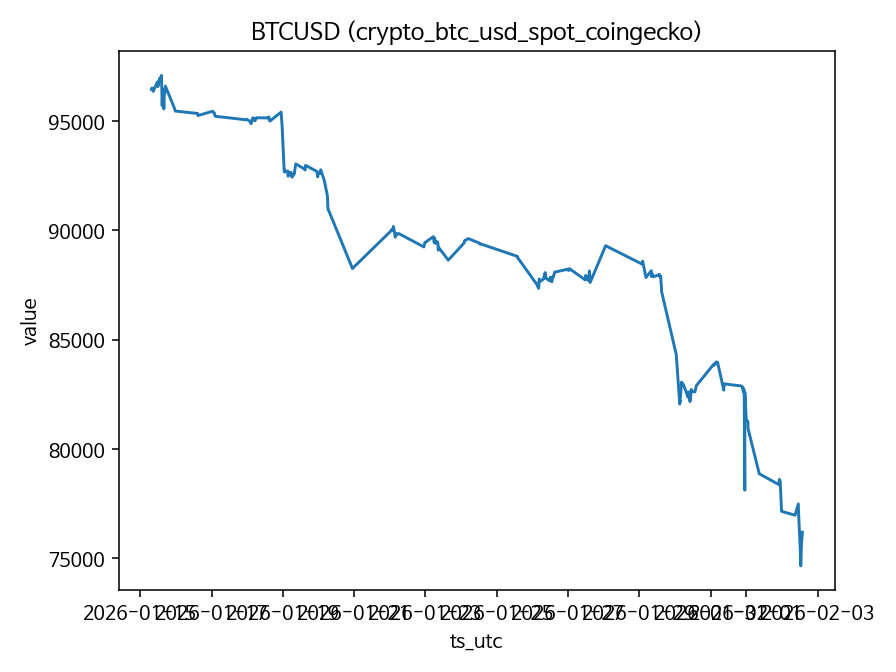
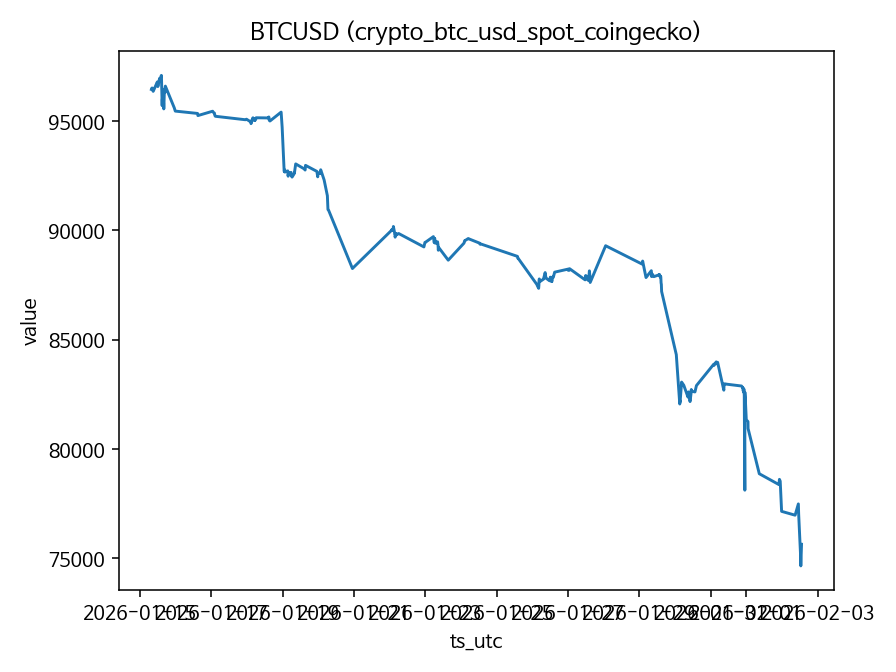
docs: Update generated docs from verification runs

Changed region(s): [[0.2812, 0.0312, 0.7812, 0.0625]]

diff --git a/docs/data/issuesignal/index.html b/docs/data/issuesignal/index.html
@@ -132,10 +132,10 @@
         <div>
             <div class="header-meta">
                 <span>DATA: 2026-02-02</span>
-                <span>RUN: 2026-02-02 13:45:30</span>
+                <span>RUN: 2026-02-02 13:10:00</span>
             </div>
             <div class="header-meta" style="margin-top:2px;">
-                <span>커밋: 90b3348</span>
+                <span>커밋: eaa2ca8</span>
                 <span>엔진: v2.5.1</span>
             </div>
         </div>

diff --git a/docs/issuesignal/index.html b/docs/issuesignal/index.html
@@ -132,10 +132,10 @@
         <div>
             <div class="header-meta">
                 <span>DATA: 2026-02-02</span>
-                <span>RUN: 2026-02-02 13:45:30</span>
+                <span>RUN: 2026-02-02 13:10:00</span>
             </div>
             <div class="header-meta" style="margin-top:2px;">
-                <span>커밋: 90b3348</span>
+                <span>커밋: eaa2ca8</span>
                 <span>엔진: v2.5.1</span>
             </div>
         </div>

diff --git a/docs/data/reports/2026/02/02/decision_dashboard.md b/docs/data/reports/2026/02/02/decision_dashboard.md
@@ -83,9 +83,9 @@
 - **Count**: 40
 - **Type Breakdown**: NEWS: 40
 - **Samples (Top 3)**:
-  - [NEWS] [속보]코스피 매도사이드카 발동, 5% 폭락해 5000선 무너져 - 경향신문 (Google_News_KR_Economy)
-  - [NEWS] 대출 막으니 “국평만 더 튀었다”… 강남 18억·강북 11억 ‘역대급’ [수민이가 궁금해요] - 세계일보 (Google_News_KR_Economy)
-  - [NEWS] 금, 은 원자재 가격 폭락과 비트코인 하락, 다음주 미국, 한국증시 전망 - 네이버 프리미엄콘텐츠 (Google_News_KR_Economy)
+  - [NEWS] 비트코인 급락에 트레저리 기업 주가 흔들…차기 연준 의장 ‘친코인’ 가능성에 세일러는 “더 산다” - 조선일보 (Google_News_KR_Economy)
+  - [NEWS] 서울 중소형 아파트값, 한강 이남에선 평균 18억 넘었다 - 경향신문 (Google_News_KR_Economy)
+  - [NEWS] 금·은 급락 부른 ‘케빈 워시 효과’…조기 금리인하 베팅 점화 - mstoday.co.kr (Google_News_KR_Economy)
 
 
 ### 🌱 TOPIC SEEDS (STRUCTURAL)
@@ -187,37 +187,26 @@
 
 | Fact Anchor | Structural Reason | Confidence |
 |---|---|---|
-| [속보]코스피 매도사이드카 발동, 5% 폭락해 5000선 무너져 - 경향신문 | Structural implication: '[속보]코스피 매도사이드카 발동, 5% 폭락해 5000선 무너져 - 경향신문' suggests a shift in NEWS dynamics. | LOW |
-| 대출 막으니 “국평만 더 튀었다”… 강남 18억·강북 11억 ‘역대급’ [수민이가 궁금해요] - 세계일보 | Structural implication: '대출 막으니 “국평만 더 튀었다”… 강남 18억·강북 11억 ‘역대급’ [수민이가 궁금해요] - 세계일보' suggests a shift in NEWS dynamics. | LOW |
-| 금, 은 원자재 가격 폭락과 비트코인 하락, 다음주 미국, 한국증시 전망 - 네이버 프리미엄콘텐츠 | Structural implication: '금, 은 원자재 가격 폭락과 비트코인 하락, 다음주 미국, 한국증시 전망 - 네이버 프리미엄콘텐츠' suggests a shift in NEWS dynamics. | LOW |
-| “큰손들은 이미 발 뺐다”…비트코인, 8만 달러도 무너진 이유 [잇슈 머니] - KBS 뉴스 | Structural implication: '“큰손들은 이미 발 뺐다”…비트코인, 8만 달러도 무너진 이유 [잇슈 머니] - KBS 뉴스' suggests a shift in NEWS dynamics. | LOW |
-| ‘워시 충격’에…코스피 확 밀리고, 환율은 1450원대로 급등 - 한겨레 | Structural implication: '‘워시 충격’에…코스피 확 밀리고, 환율은 1450원대로 급등 - 한겨레' suggests a shift in NEWS dynamics. | LOW |
+| 비트코인 급락에 트레저리 기업 주가 흔들…차기 연준 의장 ‘친코인’ 가능성에 세일러는 “더 산다” - 조선일보 | Structural implication: '비트코인 급락에 트레저리 기업 주가 흔들…차기 연준 의장 ‘친코인’ 가능성에 세일러는 “더 산다” - 조선일보' suggests a shift in NEWS dynamics. | LOW |
+| 서울 중소형 아파트값, 한강 이남에선 평균 18억 넘었다 - 경향신문 | Structural implication: '서울 중소형 아파트값, 한강 이남에선 평균 18억 넘었다 - 경향신문' suggests a shift in NEWS dynamics. | LOW |
+| 금·은 급락 부른 ‘케빈 워시 효과’…조기 금리인하 베팅 점화 - mstoday.co.kr | Structural implication: '금·은 급락 부른 ‘케빈 워시 효과’…조기 금리인하 베팅 점화 - mstoday.co.kr' suggests a shift in NEWS dynamics. | LOW |
+| 코스피·코스닥 동반 급락…환율 1,450원대로 - 연합뉴스TV | Structural implication: '코스피·코스닥 동반 급락…환율 1,450원대로 - 연합뉴스TV' suggests a shift in NEWS dynamics. | LOW |
+| “1월 주도주가 상반기 휩쓴다”…韓 반도체·자동차 ‘비중 확대’ - 매일경제 | Structural implication: '“1월 주도주가 상반기 휩쓴다”…韓 반도체·자동차 ‘비중 확대’ - 매일경제' suggests a shift in NEWS dynamics. | LOW |
 | 4일 만에 17% 폭등한 코스닥… 종목 대신 ‘레버리지’에 뭉칫돈 쏠린다 - 조선비즈 - Chosunbiz | Structural implication: '4일 만에 17% 폭등한 코스닥… 종목 대신 ‘레버리지’에 뭉칫돈 쏠린다 - 조선비즈 - Chosunbiz' suggests a shift in NEWS dynamics. | LOW |
+| ‘워시 충격’에…코스피 확 밀리고, 환율은 1450원대로 급등 - 한겨레 | Structural implication: '‘워시 충격’에…코스피 확 밀리고, 환율은 1450원대로 급등 - 한겨레' suggests a shift in NEWS dynamics. | LOW |
 | ‘지역별 전기요금’ 도입 방안 연내 마련…1분기 중 산업용 전기요금 개편 - 부산일보 | Structural implication: '‘지역별 전기요금’ 도입 방안 연내 마련…1분기 중 산업용 전기요금 개편 - 부산일보' suggests a shift in NEWS dynamics. | LOW |
 | "D램은 AI시대 완성할 황금나사"…지난달 수출 12.6조 사상 최대 - 한국경제 | Structural implication: '"D램은 AI시대 완성할 황금나사"…지난달 수출 12.6조 사상 최대 - 한국경제' suggests a shift in NEWS dynamics. | LOW |
 | 현대차, 러시아 공장 재매입 안 한다 - 매일경제 | Structural implication: '현대차, 러시아 공장 재매입 안 한다 - 매일경제' suggests a shift in NEWS dynamics. | LOW |
-| 코스피, 외국인 2조 던질 때 개인 투자자가 6조 받았다…TOP3 쏠림 - 연합인포맥스 | Structural implication: '코스피, 외국인 2조 던질 때 개인 투자자가 6조 받았다…TOP3 쏠림 - 연합인포맥스' suggests a shift in NEWS dynamics. | LOW |
-| 마운자로-러닝 열풍에 밀린 헬스장, 지난달에만 70곳 문닫아 - 동아일보 | Structural implication: '마운자로-러닝 열풍에 밀린 헬스장, 지난달에만 70곳 문닫아 - 동아일보' suggests a shift in NEWS dynamics. | LOW |
-| “전원 끄면 우린 사라지나” AI끼리 단톡방 만들었다 - 조선일보 | Structural implication: '“전원 끄면 우린 사라지나” AI끼리 단톡방 만들었다 - 조선일보' suggests a shift in NEWS dynamics. | LOW |
+| 인간은 구경만…AI끼리 주인 뒷담화 내뱉는 SNS ‘몰트북’ 등장 - 동아일보 | Structural implication: '인간은 구경만…AI끼리 주인 뒷담화 내뱉는 SNS ‘몰트북’ 등장 - 동아일보' suggests a shift in NEWS dynamics. | LOW |
 | '두쫀쿠' 철물점·이불집에서도 팔더니…결국 터질게 터졌다 - 한국경제 | Structural implication: ''두쫀쿠' 철물점·이불집에서도 팔더니…결국 터질게 터졌다 - 한국경제' suggests a shift in NEWS dynamics. | LOW |
-| 로또 1등 평균 당첨금 20억원…작년 판매 6.2조 역대 최대 - 연합뉴스TV | Structural implication: '로또 1등 평균 당첨금 20억원…작년 판매 6.2조 역대 최대 - 연합뉴스TV' suggests a shift in NEWS dynamics. | LOW |
+| 머스크도, 팀 쿡도 “반도체 부족” 토로…공급난 장기화하나 - 한겨레 | Structural implication: '머스크도, 팀 쿡도 “반도체 부족” 토로…공급난 장기화하나 - 한겨레' suggests a shift in NEWS dynamics. | LOW |
+| 아틀라스가 공장 들어오는 날, 한국사회는 준비돼 있나 - 경향신문 | Structural implication: '아틀라스가 공장 들어오는 날, 한국사회는 준비돼 있나 - 경향신문' suggests a shift in NEWS dynamics. | LOW |
+| 로또 맞아도 서울에 아파트 한 채 못 사... ‘인생 역전’ 옛말 - 조선일보 | Structural implication: '로또 맞아도 서울에 아파트 한 채 못 사... ‘인생 역전’ 옛말 - 조선일보' suggests a shift in NEWS dynamics. | LOW |
 | “사장님은 25만 원, 손님은 2만 원”…설 명절 ‘지갑’ 지키는 방법 [잇슈 머니] - KBS 뉴스 | Structural implication: '“사장님은 25만 원, 손님은 2만 원”…설 명절 ‘지갑’ 지키는 방법 [잇슈 머니] - KBS 뉴스' suggests a shift in NEWS dynamics. | LOW |
-| 쿠팡, 한국서 40조 벌지만 정작 미국 기업…“대기업 총수 지정 대상서도 빠져” - 매일경제 | Structural implication: '쿠팡, 한국서 40조 벌지만 정작 미국 기업…“대기업 총수 지정 대상서도 빠져” - 매일경제' suggests a shift in NEWS dynamics. | LOW |
 | 탈모, OLED 빛으로 92% 예방…"전임상 계획" - 지디넷코리아 | Structural implication: '탈모, OLED 빛으로 92% 예방…"전임상 계획" - 지디넷코리아' suggests a shift in NEWS dynamics. | LOW |
+| 쿠팡, 한국서 40조 벌지만 정작 미국 기업…“대기업 총수 지정 대상서도 빠져” - 매일경제 | Structural implication: '쿠팡, 한국서 40조 벌지만 정작 미국 기업…“대기업 총수 지정 대상서도 빠져” - 매일경제' suggests a shift in NEWS dynamics. | LOW |
 | 죽기 직전 주식 팔아…1000억원 상속세 소송 결말은 - 한국경제 | Structural implication: '죽기 직전 주식 팔아…1000억원 상속세 소송 결말은 - 한국경제' suggests a shift in NEWS dynamics. | LOW |
 | “무슨 돈으로 주식” “투자로 더 벌어”…5000피 시대의 ‘두 얼굴’ - 경향신문 | Structural implication: '“무슨 돈으로 주식” “투자로 더 벌어”…5000피 시대의 ‘두 얼굴’ - 경향신문' suggests a shift in NEWS dynamics. | LOW |
-| 기모노 입고 기아차 홍보한 독일 대리점… “한국 문화 이해도 낮아” - 조선일보 | Structural implication: '기모노 입고 기아차 홍보한 독일 대리점… “한국 문화 이해도 낮아” - 조선일보' suggests a shift in NEWS dynamics. | LOW |
-| iH, 도시개발군 최초 ‘ISO 30301’ 재인증 | Structural implication: 'iH, 도시개발군 최초 ‘ISO 30301’ 재인증' suggests a shift in NEWS dynamics. | LOW |
-| 인천경제청 송도컨벤시아, 역대 최대 실적 달성 | Structural implication: '인천경제청 송도컨벤시아, 역대 최대 실적 달성' suggests a shift in NEWS dynamics. | LOW |
-| SKT, 실전형으로 보안 매뉴얼 정비...인프라 협력사 보안도 강화 | Structural implication: 'SKT, 실전형으로 보안 매뉴얼 정비...인프라 협력사 보안도 강화' suggests a shift in NEWS dynamics. | LOW |
-| KT, 경남 양산 원동습지에 자동 기상관측 장비 설치...환경 연구 지원 | Structural implication: 'KT, 경남 양산 원동습지에 자동 기상관측 장비 설치...환경 연구 지원' suggests a shift in NEWS dynamics. | LOW |
-| 아워홈, 급식업계 최초로 ‘블루리본 서베이’ 인증 획득 | Structural implication: '아워홈, 급식업계 최초로 ‘블루리본 서베이’ 인증 획득' suggests a shift in NEWS dynamics. | LOW |
-| 브루노에 ‘볼뽀뽀’ 그래미 오프닝 로제…‘올해의 레코드’ 수상 불발 | Structural implication: '브루노에 ‘볼뽀뽀’ 그래미 오프닝 로제…‘올해의 레코드’ 수상 불발' suggests a shift in NEWS dynamics. | LOW |
-| AI 해고인가, AI 핑계인가…‘AI 워싱’ 논란 | Structural implication: 'AI 해고인가, AI 핑계인가…‘AI 워싱’ 논란' suggests a shift in NEWS dynamics. | LOW |
-| 워시쇼크발 블랙먼데이에 코스피 사이드카 발동, 4940선도 붕괴 | Structural implication: '워시쇼크발 블랙먼데이에 코스피 사이드카 발동, 4940선도 붕괴' suggests a shift in NEWS dynamics. | LOW |
-| 슈퍼볼 광고 단가 사상 최고치…TV광고로 눈 돌리는 기업들 | Structural implication: '슈퍼볼 광고 단가 사상 최고치…TV광고로 눈 돌리는 기업들' suggests a shift in NEWS dynamics. | LOW |
-| [속보] 로제, 그래미 ‘올해의 노래’·‘올해의 레코드’ 수상 불발 | Structural implication: '[속보] 로제, 그래미 ‘올해의 노래’·‘올해의 레코드’ 수상 불발' suggests a shift in NEWS dynamics. | LOW |
-| 경기도, 올해 신규공무원 5041명 뽑는다 | Structural implication: '경기도, 올해 신규공무원 5041명 뽑는다' suggests a shift in NEWS dynamics. | LOW |
 | ㈜브릿지3, 생성형 AI 최적화(GEO) 브랜딩 플랫폼 ‘브릿지오’ 핵심기술 특허 출원 | Structural implication: '㈜브릿지3, 생성형 AI 최적화(GEO) 브랜딩 플랫폼 ‘브릿지오’ 핵심기술 특허 출원' suggests a shift in NEWS dynamics. | LOW |
 | [속보] 코스피 5000선 깨져…매도 사이드카 발동 | Structural implication: '[속보] 코스피 5000선 깨져…매도 사이드카 발동' suggests a shift in NEWS dynamics. | LOW |
 | “고기·계란에 김까지, 안 오르는 게 없네”…설 앞두고 밥상 물가 ‘비상’ | Structural implication: '“고기·계란에 김까지, 안 오르는 게 없네”…설 앞두고 밥상 물가 ‘비상’' suggests a shift in NEWS dynamics. | LOW |
@@ -227,6 +216,17 @@
 | ‘한국판 딥테크’의 반란… 설립 4년 만에 미국 나스닥 뚫었다 | Structural implication: '‘한국판 딥테크’의 반란… 설립 4년 만에 미국 나스닥 뚫었다' suggests a shift in NEWS dynamics. | LOW |
 | “요즘 모텔 갈 바엔 호텔 간다고 하더만”...‘러브호텔’ 사라진 이유 | Structural implication: '“요즘 모텔 갈 바엔 호텔 간다고 하더만”...‘러브호텔’ 사라진 이유' suggests a shift in NEWS dynamics. | LOW |
 | “나랑 눈마주쳤는데 기절”...꽁꽁 얼어붙은 이구아나들, 어쩌나 | Structural implication: '“나랑 눈마주쳤는데 기절”...꽁꽁 얼어붙은 이구아나들, 어쩌나' suggests a shift in NEWS dynamics. | LOW |
+| 현대모비스, 지난해 해외 수주 13.2조원…“목표 23% 초과 달성” | Structural implication: '현대모비스, 지난해 해외 수주 13.2조원…“목표 23% 초과 달성”' suggests a shift in NEWS dynamics. | LOW |
+| [Travel] 청정 동해안의 숨은 보석을 찾아서... 동해의 끝, 새로운 시작 울진 여행 | Structural implication: '[Travel] 청정 동해안의 숨은 보석을 찾아서... 동해의 끝, 새로운 시작 울진 여행' suggests a shift in NEWS dynamics. | LOW |
+| 통신 멤버십으로 건강검진 할인돼? 나만 몰랐나?…최대 49% 된다는데 | Structural implication: '통신 멤버십으로 건강검진 할인돼? 나만 몰랐나?…최대 49% 된다는데' suggests a shift in NEWS dynamics. | LOW |
+| 임이자 “장동혁 지도부 재신임, 당원 투표하자…100% 수용 전제로” | Structural implication: '임이자 “장동혁 지도부 재신임, 당원 투표하자…100% 수용 전제로”' suggests a shift in NEWS dynamics. | LOW |
+| “포켓몬 덕후들 이건 못 참지”…레고코리아, 피카츄·이브이 등 사전 예약 | Structural implication: '“포켓몬 덕후들 이건 못 참지”…레고코리아, 피카츄·이브이 등 사전 예약' suggests a shift in NEWS dynamics. | LOW |
+| 전통 식문화 재해석한 뼈요리 전문점 ‘도문장’ 브랜드 런칭 | Structural implication: '전통 식문화 재해석한 뼈요리 전문점 ‘도문장’ 브랜드 런칭' suggests a shift in NEWS dynamics. | LOW |
+| SNS 지시 받아 야바·필로폰 밀수…진주서, 외국인 마약조직 일망타진 | Structural implication: 'SNS 지시 받아 야바·필로폰 밀수…진주서, 외국인 마약조직 일망타진' suggests a shift in NEWS dynamics. | LOW |
+| “대통령 지지율까지 흔들릴 수도”…민주 내부서 ‘합당’ 철회 요구 분출 | Structural implication: '“대통령 지지율까지 흔들릴 수도”…민주 내부서 ‘합당’ 철회 요구 분출' suggests a shift in NEWS dynamics. | LOW |
+| [속보] 경찰, 세종호텔 노조원 등 10여명 체포·연행 | Structural implication: '[속보] 경찰, 세종호텔 노조원 등 10여명 체포·연행' suggests a shift in NEWS dynamics. | LOW |
+| 애물단지에서 효자로…‘귀하신 몸’ 낸드, AI 열풍 타고 환골탈태 | Structural implication: '애물단지에서 효자로…‘귀하신 몸’ 낸드, AI 열풍 타고 환골탈태' suggests a shift in NEWS dynamics. | LOW |
+| ‘통일교 1억 수수’ 권성동, 1심 징역 2년 판결에 항소 | Structural implication: '‘통일교 1억 수수’ 권성동, 1심 징역 2년 판결에 항소' suggests a shift in NEWS dynamics. | LOW |
 
 
 ## 🚫 WHY NO SPEAK (Today)

diff --git a/docs/data/reports/2026/02/02/daily_brief.md b/docs/data/reports/2026/02/02/daily_brief.md
@@ -38,6 +38,8 @@ Historical context:
 - [HIGH] M_AND_A_DISP: data/features/anomalies/2026/02/02/struct_dart_disposal.json L2 Signal (base=6.00, final_m=12.30) | Mom: FLAT (slope=0.00) -> x1.0 | App7d=7
 - [MED] KOR_CPI: data/features/anomalies/2026/02/02/inflation_kor_cpi_ecos.json L1 Signal (base=3.00, final_m=6.15) | Mom: FLAT (slope=0.00) -> x1.0 | App7d=7
 - [MED] FED_FUNDS: data/features/anomalies/2026/02/02/rates_fed_funds_fred.json L1 Signal (base=3.00, final_m=6.15) | Mom: FLAT (slope=0.00) -> x1.0 | App7d=7
+- [MED] SILVER: data/features/anomalies/2026/02/02/metal_silver_kag_coingecko.json L1 Signal (base=3.00, final_m=4.80) | Mom: FLAT (slope=0.00) -> x1.0 | App7d=4
+- [MED] SILVER: data/features/anomalies/2026/02/02/metal_silver_kag_coingecko.json L1 Signal (base=3.00, final_m=4.80) | Mom: FLAT (slope=0.00) -> x1.0 | App7d=4
 - [LOW] US10Y: data/features/anomalies/2026/02/02/rates_us10y_fred.json (Normal) (base=0.00, final_m=0.00) | Mom: FLAT (slope=0.00) -> x1.0 | App7d=7
 - [LOW] VIX: data/features/anomalies/2026/02/02/risk_vix_fred.json (Normal) (base=0.00, final_m=0.00) | Mom: FLAT (slope=0.00) -> x1.0 | App7d=7
 - [LOW] SPX: data/features/anomalies/2026/02/02/index_spx_fred.json (Normal) (base=0.00, final_m=0.00) | Mom: FLAT (slope=0.00) -> x1.0 | App7d=3
@@ -46,8 +48,6 @@ Historical context:
 - [LOW] US02Y: data/features/anomalies/2026/02/02/rates_us02y_fred.json (Normal) (base=0.00, final_m=0.00) | Mom: FLAT (slope=0.00) -> x1.0 | App7d=7
 - [LOW] WTI: data/features/anomalies/2026/02/02/comm_wti_fred.json (Normal) (base=0.00, final_m=0.00) | Mom: FLAT (slope=0.00) -> x1.0 | App7d=7
 - [LOW] GOLD: data/features/anomalies/2026/02/02/metal_gold_paxg_coingecko.json (Normal) (base=0.00, final_m=0.00) | Mom: FLAT (slope=0.00) -> x1.0 | App7d=4
-- [LOW] SILVER: data/features/anomalies/2026/02/02/metal_silver_kag_coingecko.json (Normal) (base=0.00, final_m=0.00) | Mom: FLAT (slope=0.00) -> x1.0 | App7d=4
-- [LOW] SILVER: data/features/anomalies/2026/02/02/metal_silver_kag_coingecko.json (Normal) (base=0.00, final_m=0.00) | Mom: FLAT (slope=0.00) -> x1.0 | App7d=4
 - [LOW] KOR_RATE: data/features/anomalies/2026/02/02/rates_kor_base_rate_ecos.json (Normal) (base=0.00, final_m=0.00) | Mom: FLAT (slope=0.00) -> x1.0 | App7d=7
 - [LOW] USDKRW_ECOS: data/features/anomalies/2026/02/02/fx_usdkrw_ecos.json (Normal) (base=0.00, final_m=0.00) | Mom: FLAT (slope=0.00) -> x1.0 | App7d=3
 - [LOW] UNRATE: data/features/anomalies/2026/02/02/employment_unrate_fred.json (Normal) (base=0.00, final_m=0.00) | Mom: FLAT (slope=0.00) -> x1.0 | App7d=7
@@ -74,7 +74,7 @@ Affected: derived_corr_btc_spx_30d, derived_corr_usdkrw_us10y_30d, struct_krx_fo
 
 ## ENGINE 2: ANCHOR TOPIC (Narrative-Top Down)
 - **Topic:** [Unknown (Single Axis)] Hybrid-driven
-- **Rationale:** Anchor Logic: Statistical Deviation Z=2.18 (No Cluster) (Gap Status: Insufficient Evidence for L3/L4)
+- **Rationale:** Anchor Logic: Statistical Deviation Z=2.45 (No Cluster) (Gap Status: Insufficient Evidence for L3/L4)
 - Prompt: 현재 Regime 및 데이터 상태를 고려할 때, 이 주제를 오늘 다룰 가치가 있다고 판단하십니까?
 
 ## Content Topic (Topic Decision Gate)
@@ -93,5 +93,5 @@ Affected: derived_corr_btc_spx_30d, derived_corr_usdkrw_us10y_30d, struct_krx_fo
 - Handoff reason: 콘텐츠 후보로는 충분하나, Structural 엔진에 넘길 만큼 축 결합/증거가 부족.
 
 ## TOPIC CANDIDATE SNAPSHOT
-Gate Filter Result: 11 candidate(s) survived survival rules.
+Gate Filter Result: 10 candidate(s) survived survival rules.
 No automatic selection performed. See Dashboard for details.

diff --git a/docs/data/reports/2026/02/02/data_snapshot.md b/docs/data/reports/2026/02/02/data_snapshot.md
@@ -1,6 +1,6 @@
 # Data Snapshot
 
-- ts_utc: `2026-02-02T13:45:24Z`
+- ts_utc: `2026-02-02T13:09:53Z`
 - ymd_utc: `2026/02/02`
 - enabled_datasets: `32`
 
@@ -8,7 +8,7 @@
 
 | report_key | dataset_id | status_today | rows | first_ts_utc | last_ts_utc | last_7d_rows | last_30d_rows | ok_7d | skipped_7d | fail_7d | curated_path | chart_png |
 |---|---|---:|---:|---|---|---:|---:|---:|---:|---:|---|---|
-| BTCUSD | crypto_btc_usd_spot_coingecko | OK | 335 | 2026-01-15T07:32:29Z | 2026-02-02T13:44:35Z | 136 | 335 | 7 | 0 | 0 | data/curated/crypto/btc_usd.csv | [png](data/reports/2026/02/02/charts/crypto_btc_usd_spot_coingecko.png) |
+| BTCUSD | crypto_btc_usd_spot_coingecko | OK | 334 | 2026-01-15T07:32:29Z | 2026-02-02T13:09:03Z | 140 | 334 | 7 | 0 | 0 | data/curated/crypto/btc_usd.csv | [png](data/reports/2026/02/02/charts/crypto_btc_usd_spot_coingecko.png) |
 | CPI_USA | inflation_cpi_fred | OK | 947 | 1947-01-01T00:00:00Z | 2025-12-01T00:00:00Z | 0 | 0 | 7 | 0 | 0 | data/curated/inflation/cpi_usa.csv | [png](data/reports/2026/02/02/charts/inflation_cpi_fred.png) |
 | FED_FUNDS | rates_fed_funds_fred | OK | 858 | 1954-07-01T00:00:00Z | 2025-12-01T00:00:00Z | 0 | 0 | 7 | 0 | 0 | data/curated/rates/fed_funds.csv | [png](data/reports/2026/02/02/charts/rates_fed_funds_fred.png) |
 | FIN_STRESS | risk_financial_stress_fred | OK | 1463 | 1993-12-31T00:00:00Z | 2022-01-07T00:00:00Z | 0 | 0 | 7 | 0 | 0 | data/curated/risk/financial_stress_usa.csv | [png](data/reports/2026/02/02/charts/risk_financial_stress_fred.png) |
@@ -17,7 +17,7 @@
 | HY_SPREAD | credit_hy_spread_fred | OK | 7592 | 1996-12-31T00:00:00Z | 2026-01-29T00:00:00Z | 3 | 19 | 7 | 0 | 0 | data/curated/credit/hy_spread_usa.csv | [png](data/reports/2026/02/02/charts/credit_hy_spread_fred.png) |
 | KOR_CPI | inflation_kor_cpi_ecos | OK | 60 | 2021-02-01T00:00:00Z | 2025-12-01T00:00:00Z | 0 | 0 | 7 | 0 | 0 | data/curated/ecos/inflation/korea_cpi.csv | [png](data/reports/2026/02/02/charts/inflation_kor_cpi_ecos.png) |
 | KOR_RATE | rates_kor_base_rate_ecos | OK | 60 | 2021-02-01T00:00:00Z | 2025-12-01T00:00:00Z | 0 | 0 | 7 | 0 | 0 | data/curated/ecos/rates/korea_base_rate.csv | [png](data/reports/2026/02/02/charts/rates_kor_base_rate_ecos.png) |
-| KOSPI | index_kospi_stooq | OK | 334 | 2026-01-15T07:32:40Z | 2026-02-02T13:44:38Z | 136 | 334 | 7 | 0 | 0 | data/curated/indices/kospi.csv | [png](data/reports/2026/02/02/charts/index_kospi_stooq.png) |
+| KOSPI | index_kospi_stooq | OK | 333 | 2026-01-15T07:32:40Z | 2026-02-02T13:09:06Z | 140 | 333 | 7 | 0 | 0 | data/curated/indices/kospi.csv | [png](data/reports/2026/02/02/charts/index_kospi_stooq.png) |
 | M2_USA | liquidity_m2_fred | OK | 804 | 1959-01-01T00:00:00Z | 2025-12-01T00:00:00Z | 0 | 0 | 7 | 0 | 0 | data/curated/liquidity/m2_usa.csv | [png](data/reports/2026/02/02/charts/liquidity_m2_fred.png) |
 | M_AND_A_CB | struct_dart_cb_bw | OK | 1 | 2026-01-22T18:00:00Z | 2026-01-22T18:00:00Z | 0 | 1 | 7 | 0 | 0 | data/curated/structural/cb_bw.csv | [png](data/reports/2026/02/02/charts/struct_dart_cb_bw.png) |
 | M_AND_A_DISP | struct_dart_disposal | OK | 2 | 2026-01-22T18:00:00Z | 2026-01-24T18:00:00Z | 0 | 2 | 7 | 0 | 0 | data/curated/structural/disposal.csv | [png](data/reports/2026/02/02/charts/struct_dart_disposal.png) |

diff --git a/docs/OBSERVATION_LOG.md b/docs/OBSERVATION_LOG.md
@@ -161,4 +161,3 @@
 - 2026-02-02T12:28:33+09:00 | engine_run | status=SUCCESS | run_log=data/reports/2026/02/02/run_log.md
 - 2026-02-02T12:41:14+09:00 | engine_run | status=SUCCESS | run_log=data/reports/2026/02/02/run_log.md
 - 2026-02-02T13:09:54+09:00 | engine_run | status=SUCCESS | run_log=data/reports/2026/02/02/run_log.md
-- 2026-02-02T13:45:24+09:00 | engine_run | status=SUCCESS | run_log=data/reports/2026/02/02/run_log.md

diff --git a/docs/data/reports/2026/02/02/run_log.md b/docs/data/reports/2026/02/02/run_log.md
@@ -1,7 +1,7 @@
 # Run Log
 
-- started_utc: 2026-02-02T13:44:35+09:00
-- finished_utc: 2026-02-02T13:45:24+09:00
+- started_utc: 2026-02-02T13:09:03+09:00
+- finished_utc: 2026-02-02T13:09:54+09:00
 - status: SUCCESS
 
 ## details
